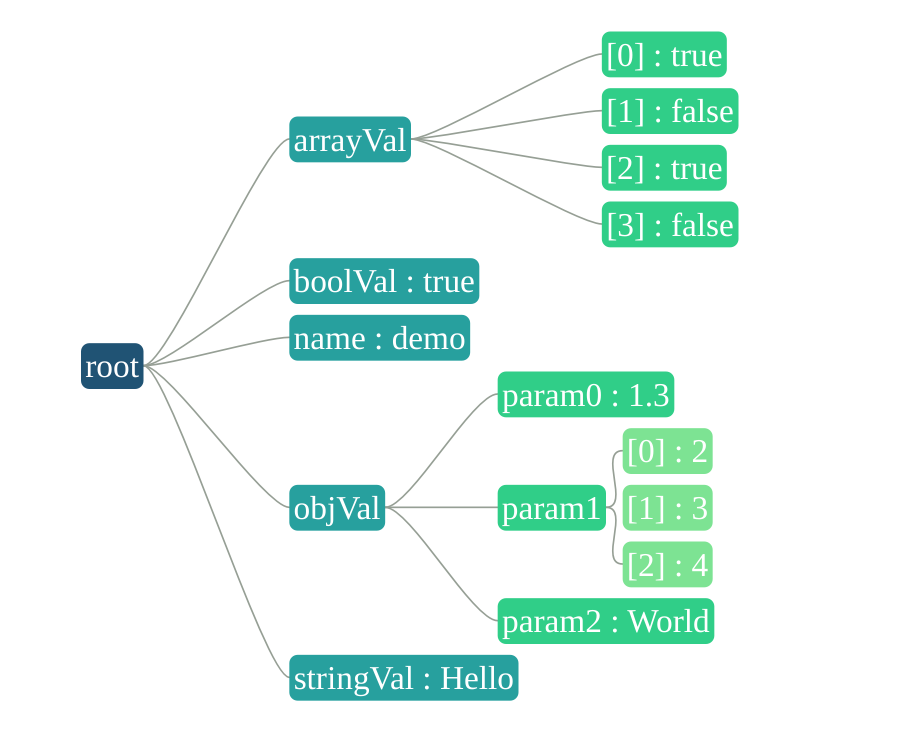
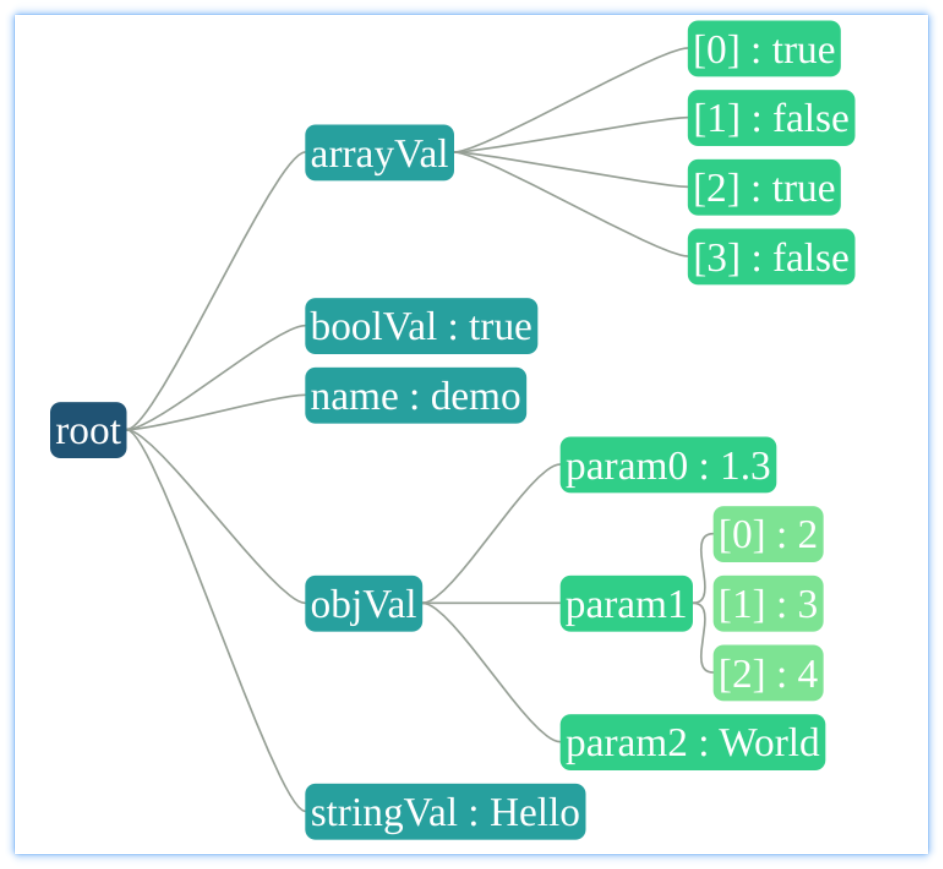
update readme

diff --git a/README.md b/README.md
@@ -1,3 +1,3 @@
 a simple JSON Visualizer based on Qt using C++ only.   
 inspired by https://github.com/cjmdaixi/QuickJSONViewer and https://doc.qt.io/qt-5/qtwidgets-graphicsview-elasticnodes-example.html  
-![alt](./example.png)
+<div align=center><img src="./example.png">
